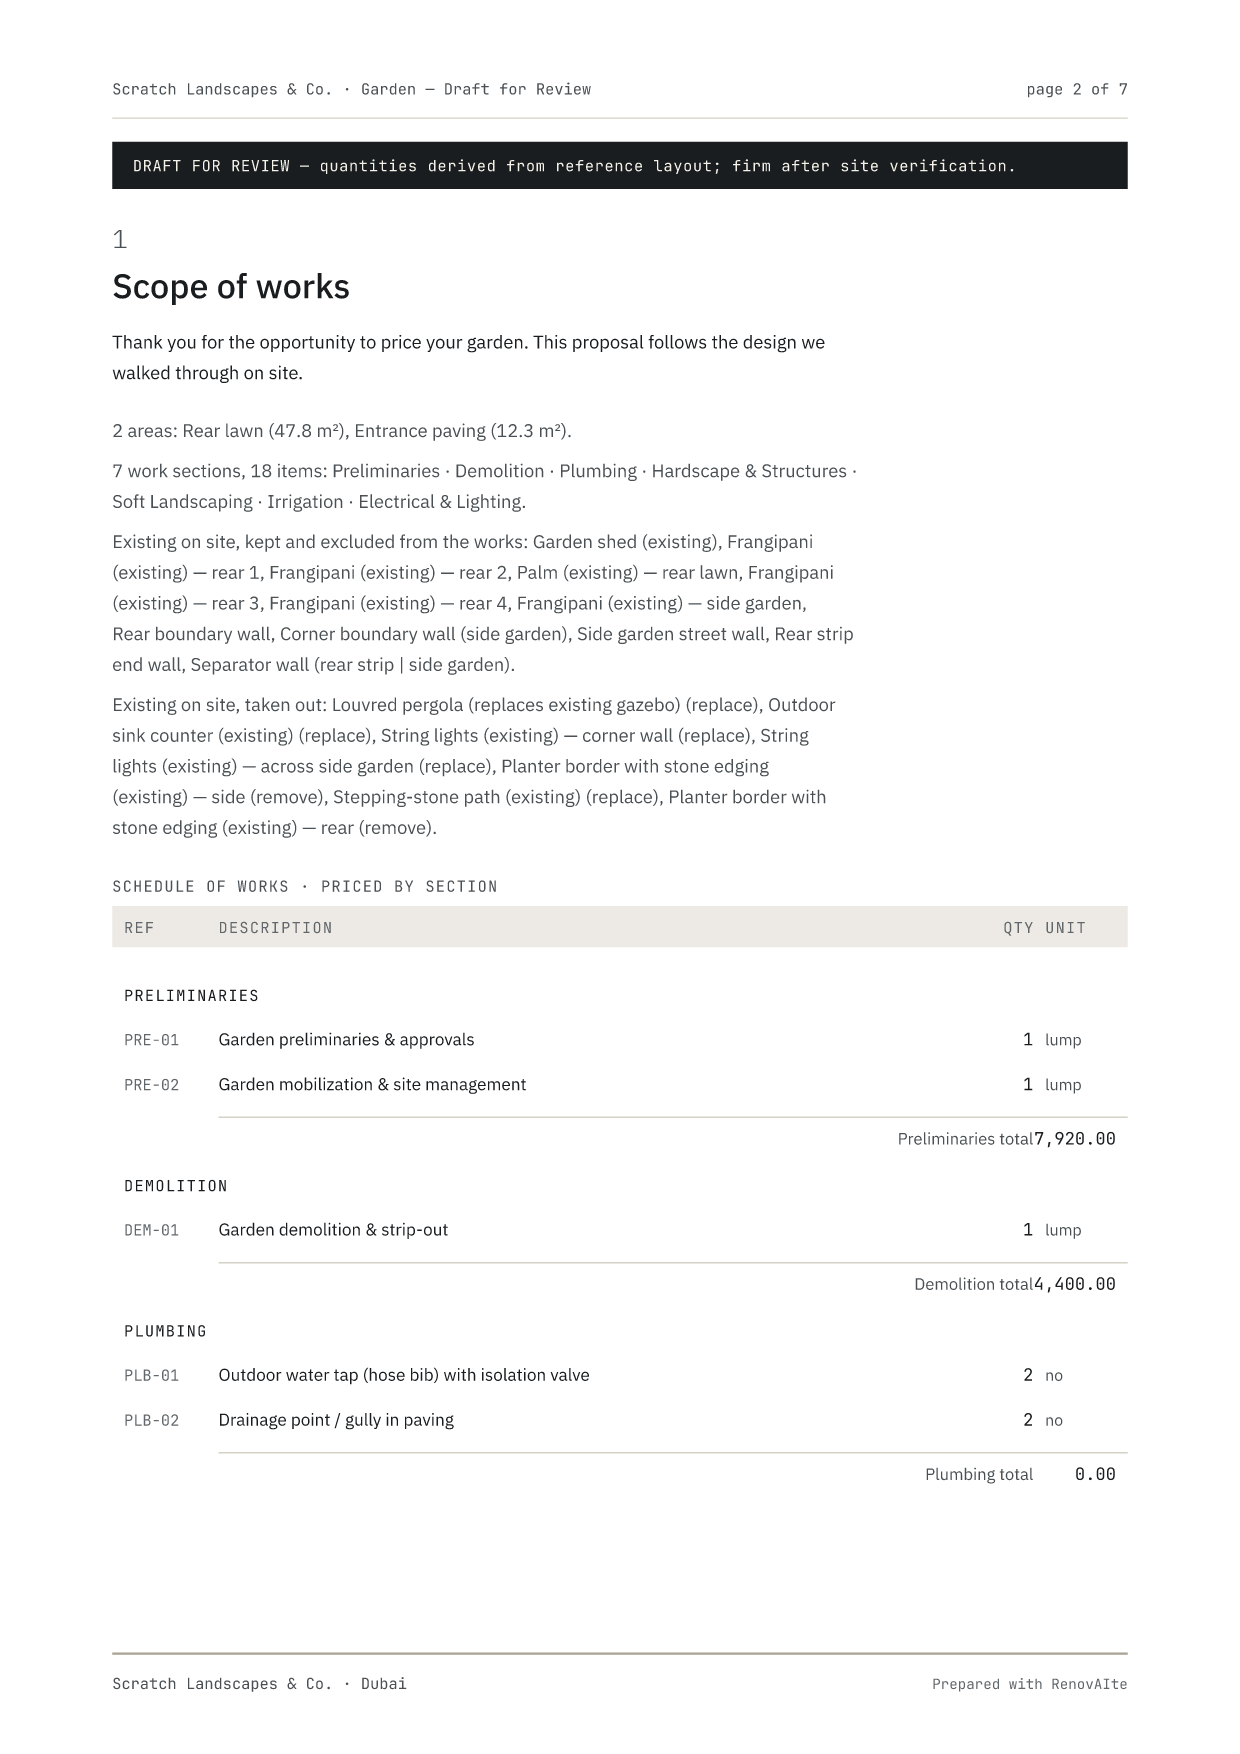
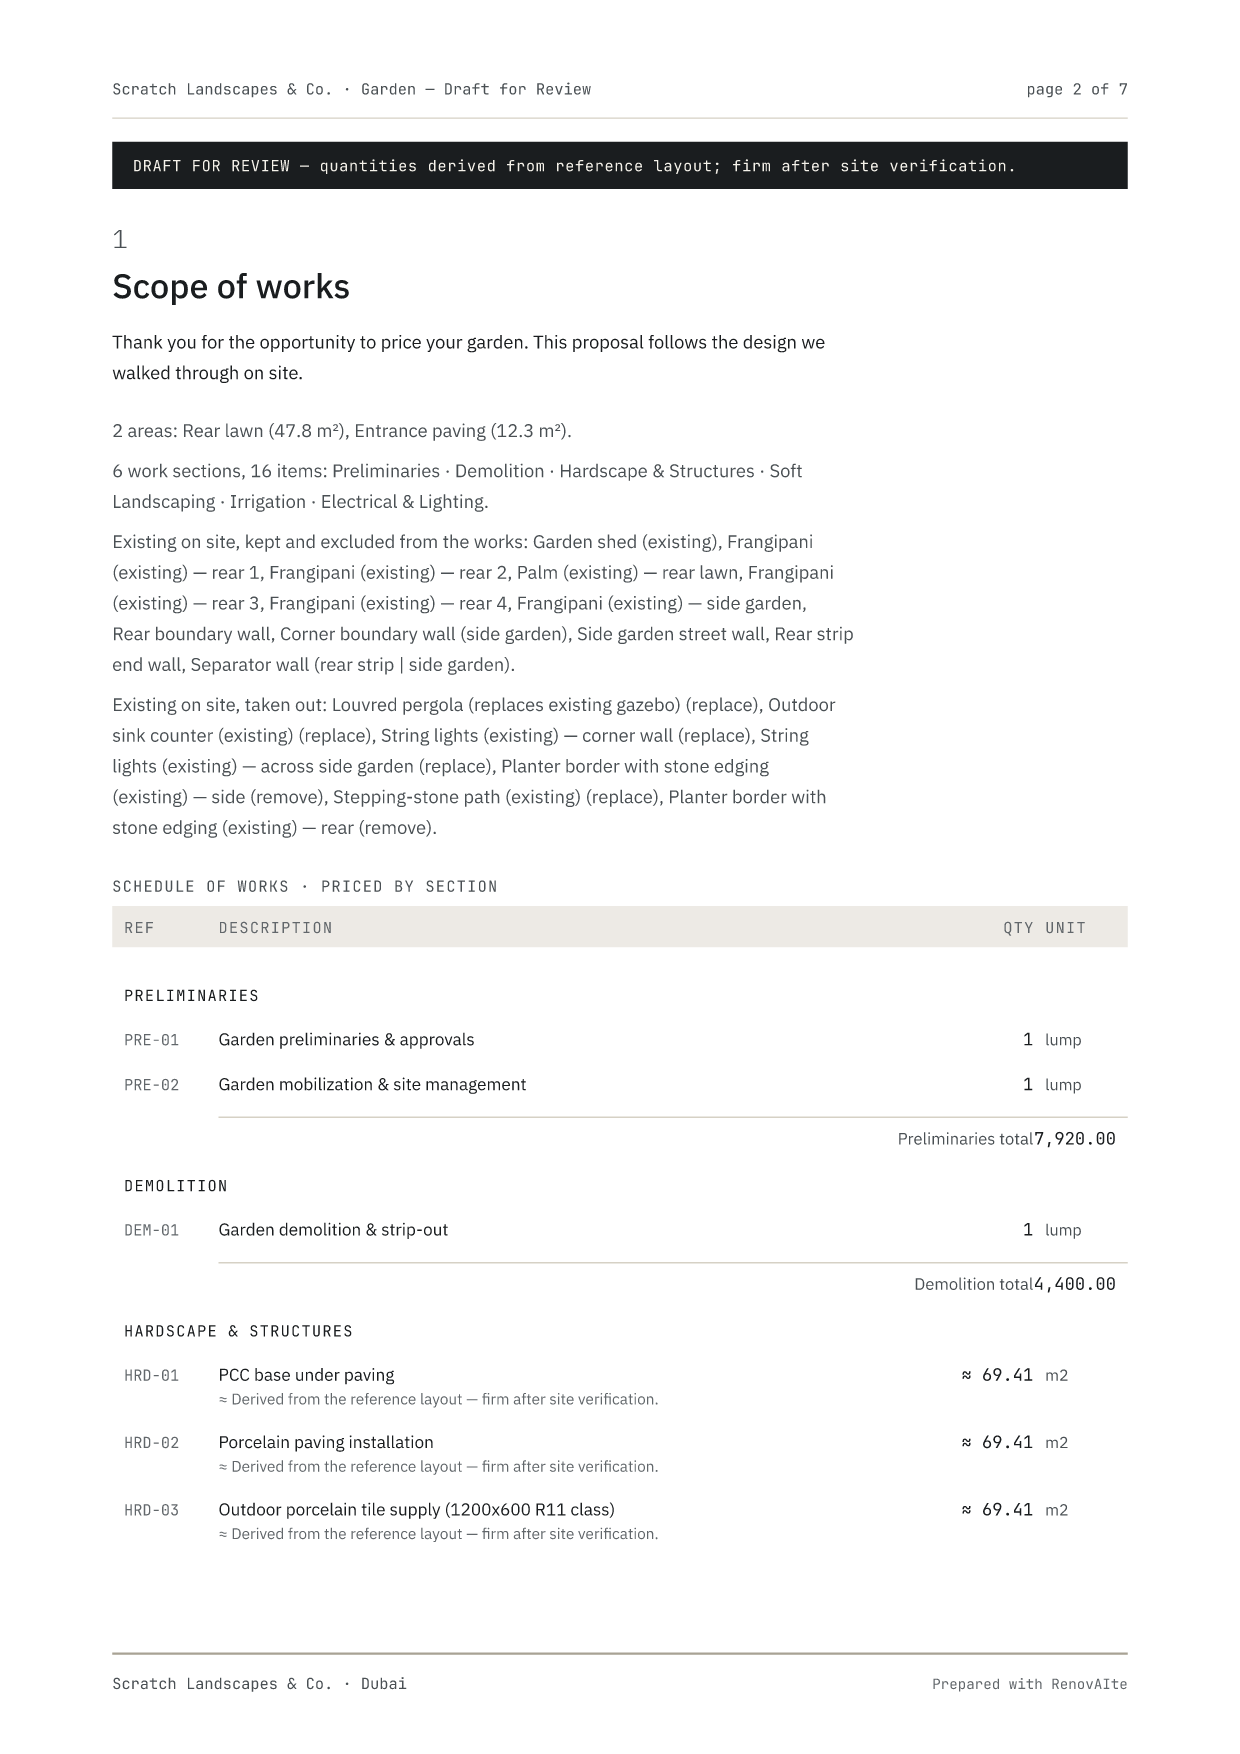
fix(proposal): hide zero-value sections in client documents (K10 #8)
The proposal printed sections worth 0.00 — on the Arabella fixture a
Plumbing section whose two lines are both still to be priced — in its
price summary and as an empty block in its schedule. clientSections
(canonical order, none worth 0) now drives the schedule, the price
summary, the scope sentence and the 08 Proposal screen's preview. The
lines stay named under Exclusions & to be priced and in the total's
sentence; the printed section totals still add up to the subtotal. The
internal BoQ PDF is unchanged.

diff --git a/lib/documents/__tests__/proposal-zero-sections.test.ts b/lib/documents/__tests__/proposal-zero-sections.test.ts
@@ -1,0 +1,49 @@
+import { readFileSync } from "node:fs";
+import path from "node:path";
+
+import { describe, expect, it } from "vitest";
+
+import { reroundRevision } from "@/lib/boq/totals";
+
+import type { BoqPdfInput } from "../boq-pdf";
+import { buildProposalPages, clientSections } from "../proposal";
+
+// K10 #8 — client documents hide zero-value sections. Arabella's stage 7 has a
+// Plumbing section of two lines, both still to be priced (total 0.00): the
+// proposal printed "Plumbing 0.00" in its price summary and an empty section in
+// its schedule. Those lines stay named — in Exclusions & to be priced and in
+// the total's sentence — and the summary still adds up to the subtotal.
+const ROOT = path.resolve(__dirname, "../../..");
+const fx = JSON.parse(readFileSync(path.join(ROOT, "lib/boq/__fixtures__/arabella-g5d-revisions.json"), "utf8")) as { stages: { boq_id: string }[]; boqs: Record<string, BoqPdfInput["boq"]> };
+const boq = reroundRevision(fx.boqs[fx.stages[7]!.boq_id]!);
+const setup = { clientLabel: "The client", validity: "Valid for 30 days", paymentTerms: "On order", coverNote: null, showLineRates: false };
+const pages = buildProposalPages({ brand: "Scratch Landscapes & Co.", logoDataUri: null, termsText: null, projectName: "Garden", community: "Dubai", dateISO: "2026-10-13", rooms: [], boq, ...setup });
+const all = pages.join("\n");
+const text = all.replace(/<[^>]+>/g, " ");
+
+describe("client documents hide zero-value sections", () => {
+  it("the fixture has one: Plumbing, every line to be priced", () => {
+    const plumbing = boq.sections.find((s) => s.work_section === "Plumbing")!;
+    expect(plumbing.section_total_aed).toBe(0);
+    expect(clientSections(boq.sections).map((s) => s.work_section)).not.toContain("Plumbing");
+    expect(clientSections(boq.sections)).toHaveLength(boq.sections.length - 1);
+  });
+
+  it("the price summary and the schedule leave it out; the scope sentence counts what is shown", () => {
+    expect(all).not.toContain('data-section-total="Plumbing"');
+    expect(text).toMatch(/6 work sections/);
+    expect(text).not.toMatch(/·\s*Plumbing\s*·/);
+  });
+
+  it("its lines stay named, and the printed section totals still add up to the subtotal", () => {
+    expect(text).toMatch(/Outdoor water tap/);
+    expect(text).toMatch(/Drainage point/);
+    const totals = [...all.matchAll(/data-section-total="[^"]+"[^>]*>([0-9,]+\.[0-9]{2})</g)].map((m) => Number(m[1]!.replace(/,/g, "")));
+    expect(totals).toHaveLength(6);
+    expect(Math.round(totals.reduce((a, b) => a + b, 0) * 100)).toBe(Math.round(boq.subtotal_aed * 100));
+  });
+
+  it("the 08 Proposal screen's preview uses the same list", () => {
+    expect(readFileSync(path.join(ROOT, "lib/documents/proposal-view.ts"), "utf8")).toContain("clientSections(boq.sections)");
+  });
+});

diff --git a/lib/documents/proposal.ts b/lib/documents/proposal.ts
@@ -79,6 +79,15 @@ export interface ProposalInput {
   preview?: boolean;
 }
 
+/**
+ * K10 #8 — the sections a CLIENT document shows: canonical order, none worth 0. A section is 0
+ * only when every line in it is still to be priced; those lines are named under Exclusions & to
+ * be priced and in the total's sentence. The 08 Proposal screen's preview uses the same list.
+ */
+export function clientSections<S extends { work_section: string; section_total_aed: number }>(sections: readonly S[]): S[] {
+  return sortSections([...sections]).filter((s) => s.section_total_aed !== 0);
+}
+
 /** The preview's mark: it is on every page, so a preview can never pass for the proposal. */
 export const PREVIEW_MARK = "PREVIEW · NOT ISSUED";
 
@@ -115,7 +124,10 @@ export function buildProposalPages(input: ProposalInput): string[] {
   const refs = assignRefs(boq.sections);
   const showRates = input.showLineRates !== false;
   const setup = input.showLineRates !== undefined;
-  const sections = sortSections(boq.sections);
+  // K10 #8: a client document shows no zero-value section. A section totals 0 only when every
+  // line in it is still to be priced — those lines are named under Exclusions & to be priced and
+  // in the total's sentence, so nothing is lost; the price summary still adds up to the subtotal.
+  const sections = clientSections(boq.sections);
   const prog = boq.programme && boq.programme.phases.length ? boq.programme : null;
   const hasTerms = !!(input.termsText && input.termsText.trim()) || !!input.validity || !!input.paymentTerms;
 

diff --git a/lib/documents/__tests__/proposal.test.ts b/lib/documents/__tests__/proposal.test.ts
@@ -56,7 +56,8 @@ describe("buildProposalPages", () => {
     expect(summary).toContain(`data-grand-total="${arabella.grand_total_aed}"`);
     expect(summary).toMatch(/≈ AED [\d,]+\.\d\d\*/); // derived, and to the fil so the column adds up
     expect(summary).toContain('data-headline-excludes="true"'); // D4: the QS-to-price lines are named
-    expect((summary.match(/data-section-total="/g) ?? []).length).toBe(arabella.sections.length);
+    // K10 #8: a client document shows no zero-value section (Plumbing here: every line to be priced).
+    expect((summary.match(/data-section-total="/g) ?? []).length).toBe(arabella.sections.filter((s) => s.section_total_aed !== 0).length);
     for (const k of ["subtotal", "contingency", "vat"]) expect(summary).toContain(`data-summary="${k}"`);
   });
 
@@ -77,7 +78,8 @@ describe("buildProposalPages", () => {
   });
 
   it("the BoQ at the firm's rates: every line with its REF, no source, no tier, no QS mark", () => {
-    const lines = arabella.sections.reduce((n, s) => n + s.lines.length, 0);
+    // K10 #8: the lines of a zero-value section are named under Exclusions & to be priced, not scheduled.
+    const lines = arabella.sections.filter((s) => s.section_total_aed !== 0).reduce((n, s) => n + s.lines.length, 0);
     expect((all.match(/data-ref="/g) ?? []).length).toBe(lines);
     expect(text(pages)).not.toMatch(/market reference|contractor rate book|indicative rate|QS to price|actual_transaction|Source:/i);
     // Derived quantities keep their honesty flag.

diff --git a/lib/documents/proposal-view.ts b/lib/documents/proposal-view.ts
@@ -10,7 +10,7 @@
 
 import type { SupabaseClient } from "@supabase/supabase-js";
 
-import { sortSections } from "@/lib/boq/section-order";
+import { clientSections } from "@/lib/documents/proposal";
 import type { BoqPdfInput } from "@/lib/documents/boq-pdf";
 import { boqDerivedInfo, derivedTotal, isUnpricedLine } from "@/lib/documents/boq-derived";
 import { loadProposalGate, type ProposalGate } from "@/lib/documents/proposal-gate";
@@ -70,7 +70,8 @@ export async function loadProposalView(db: SupabaseClient, projectId: string): P
     const boq = curateBoq(boqRow.data.sections, withheld);
     const info = boqDerivedInfo(boq);
     const total = derivedTotal(boq.grand_total_aed, info);
-    const sections = sortSections(boq.sections);
+    // K10 #8: what the client receives — no zero-value section (clientSections, the document's own list).
+    const sections = clientSections(boq.sections);
     const reference = gate.boq?.basis.reference_lines ?? 0;
     const ohpMissing = !!ohpPct && ohpPct > 0 && !(boq.ohp_aed && boq.ohp_aed > 0);
     price = {

diff --git a/CLAUDE.md b/CLAUDE.md
@@ -511,6 +511,7 @@ items and rulings needed: `docs/K_BACKLOG.md` → "Found in K8".
 - **03 Renders = locked, not rendered** (`lib/render-lock-progress.ts`): one lockable view per renderable room or zone (`roomTypeFromDb`; a design is locked per room); the owner step is Done only when all are locked, else Available with "N / M locked" (fix: Open renders). The rail now prints an available step's reason; Projects home `homeNext`, the Overview's `overviewNext` and `nextFromRail` take, in journey order, the first step that is attention, blocked or available-with-a-reason — so all three say "03 · RENDERS — 1 / 3 locked". Live: `scripts/k10-renders-rail-shots.mjs`.
 - **Icon font self-hosted** (see "Fonts, icons, theme"): the Google stylesheet is gone; a cold load on throttled Slow 4G never shows an icon name (`scripts/k10-icons-cold-shots.mjs` samples every 250 ms; light + dark). Inter and Rubik are removed (files, `SOURCES.json`, the Tailwind stacks now point at Plex — an undefined `var()` would void the whole declaration).
 - **Specification options**: three equal cells (`min-[1100px]:grid-cols-3`) down to 1100 px, then one column (`data-spec-options`; `scripts/k10-spec-grid-shots.mjs` measures 1440 / 1280 / 1100 / 1099 / 390 read-only on the dev Demo villa).
+- **Client documents hide zero-value sections** (`clientSections` in `lib/documents/proposal.ts`, also the 08 Proposal screen's preview): a section totals 0 only when every line is still to be priced — those lines stay named under Exclusions & to be priced and in the total's sentence; the printed section totals still add up to the subtotal. The BoQ PDF (internal) is unchanged.
 
 ## Brand — Atelier Precise (parked marketing only since K8)
 
